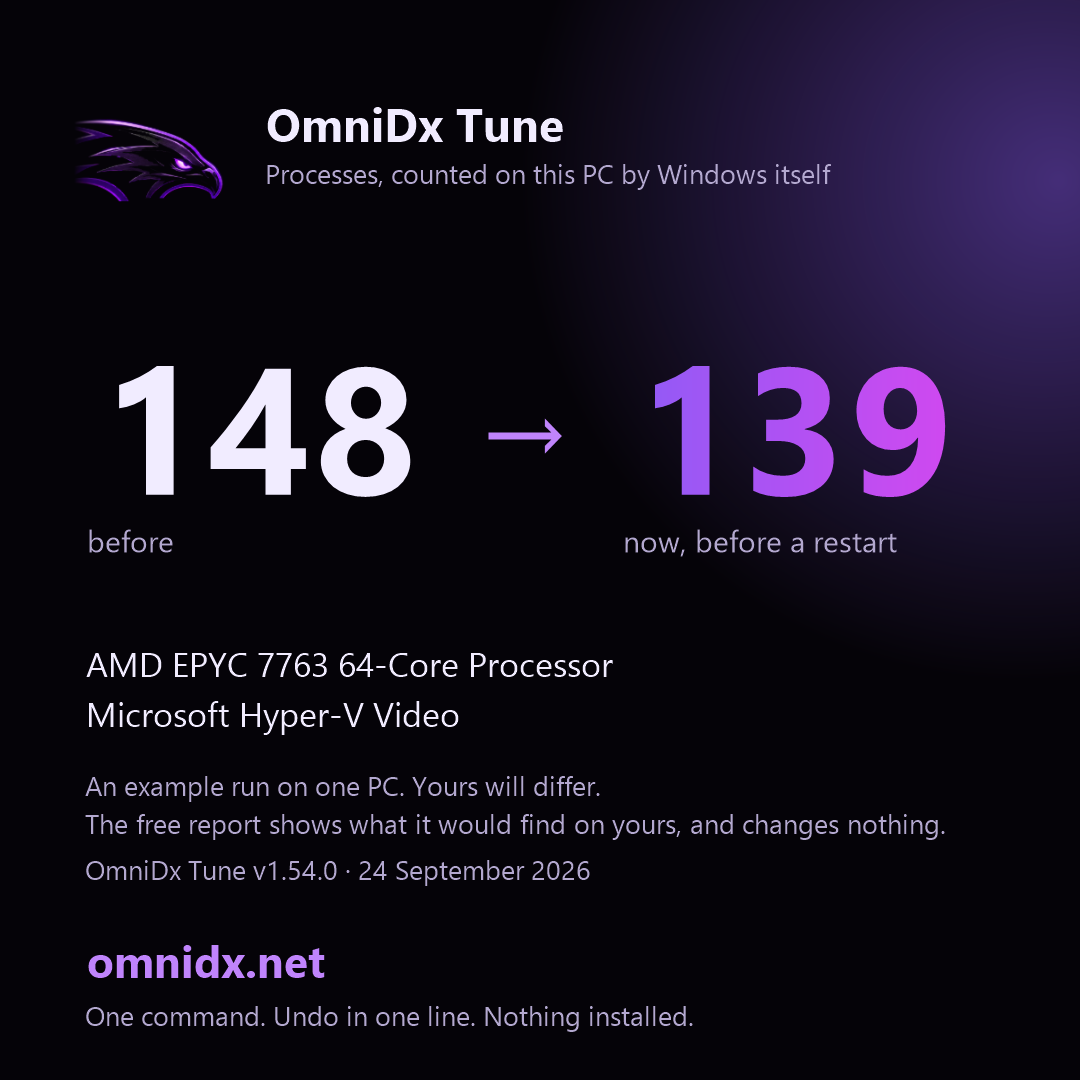
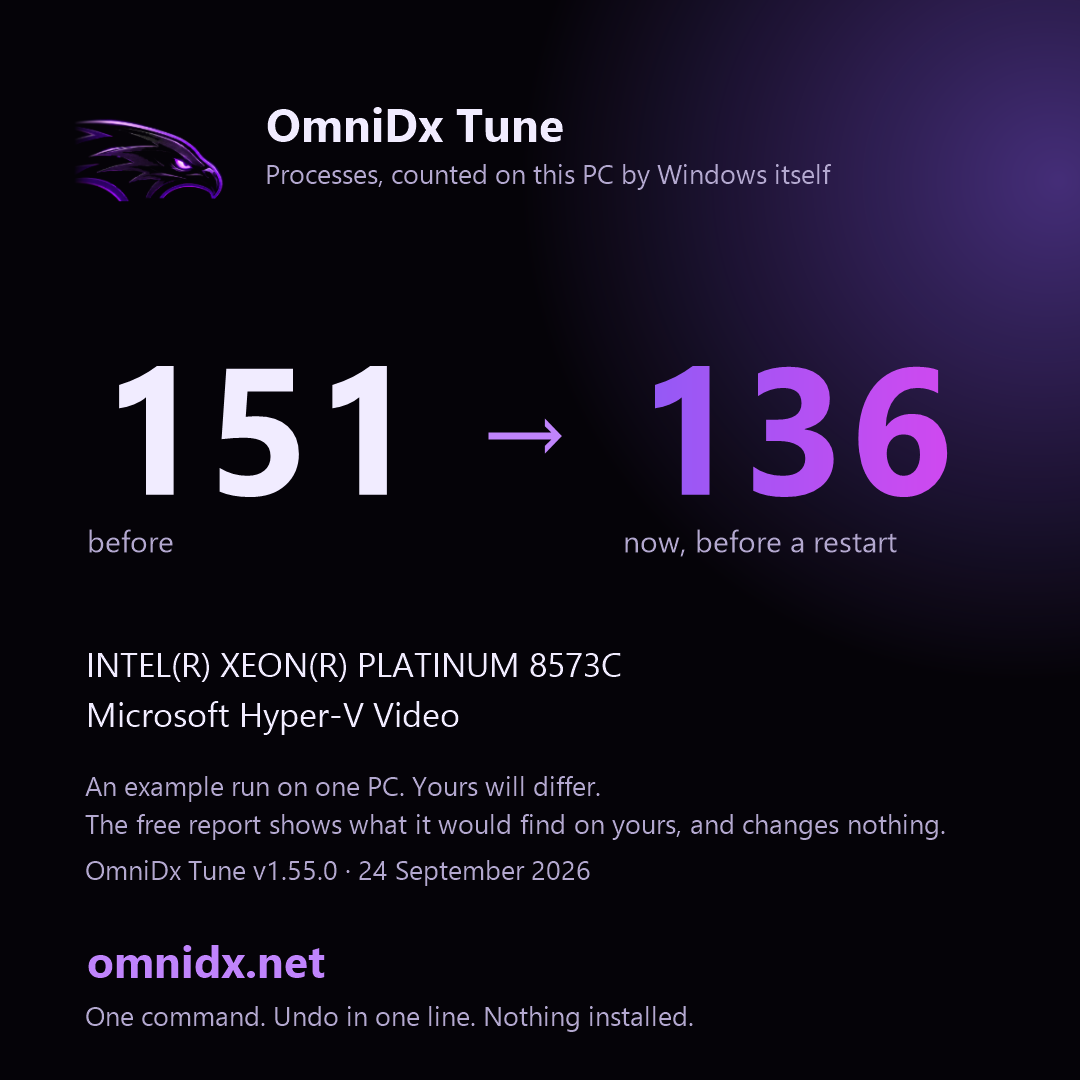
Windows check: the app window, the numbers, the log, and the script this run verified

diff --git a/studio/assets/ci-report.html b/studio/assets/ci-report.html
@@ -1,5 +1,5 @@
 <!doctype html><html lang="en"><head><meta charset="utf-8"><meta name="viewport" content="width=device-width,initial-scale=1">
-<title>OmniDx Tune report - 2026-09-24_08-09-39</title>
+<title>OmniDx Tune report - 2026-09-24_08-20-48</title>
 <style>
 body{margin:0;background:#050308;color:#f1ecff;font:15px/1.6 -apple-system,'Segoe UI',Roboto,system-ui,sans-serif}
 main{max-width:860px;margin:0 auto;padding:36px 20px 80px}
@@ -17,137 +17,134 @@ details{margin:10px 0;background:#0e0a17;border:1px solid #2a1f45;border-radius:
 details pre{font:12.5px/1.5 ui-monospace,Consolas,monospace;color:#b3a8cf;overflow:auto;max-height:420px;margin:10px 0 4px}
 .bios ul{list-style:none;padding-left:2px}.bios li{margin:8px 0;color:#f1ecff}.bios{background:#0e0a17;border:1px solid #2a1f45;border-radius:14px;padding:6px 18px}
 </style></head><body><main>
-<h1><img src="https://omnidx.net/studio/assets/icons/icon-192.png" alt="" width="44" height="44" style="vertical-align:middle;margin-right:10px" onerror="this.remove()">OmniDx Tune <span class="muted" style="font-size:16px">v1.54.0</span></h1>
-<p class="sub">Thursday, September 24, 2026 8:11 AM &middot; AMD EPYC 7763 64-Core Processor &middot; Microsoft Hyper-V Video &middot; 16 GB &middot; Microsoft Corporation Virtual Machine</p>
-<div class="big"><div><b>148</b><span>processes before</span></div><div><b>139</b><span>now, before a restart</span></div><div><b>~70</b><span>target for this PC after a restart</span></div></div>
+<h1><img src="https://omnidx.net/studio/assets/icons/icon-192.png" alt="" width="44" height="44" style="vertical-align:middle;margin-right:10px" onerror="this.remove()">OmniDx Tune <span class="muted" style="font-size:16px">v1.55.0</span></h1>
+<p class="sub">Thursday, September 24, 2026 8:22 AM &middot; INTEL(R) XEON(R) PLATINUM 8573C &middot; Microsoft Hyper-V Video &middot; 16 GB &middot; Microsoft Corporation Virtual Machine</p>
+<div class="big"><div><b>151</b><span>processes before</span></div><div><b>136</b><span>now, before a restart</span></div><div><b>~70</b><span>target for this PC after a restart</span></div></div>
 <p class='muted'>The card, for posting (the same numbers, on one picture): <code>ci-card.png</code></p><img src='ci-card.png' alt='Before and after, on a card' style='max-width:340px;width:100%;border-radius:14px;border:1px solid #2a1f45'>
 <p class="muted">Many of the "now" processes are only waiting to be stopped. The number after a restart is the one that counts; <code>C:\OmniDx\after-restart.txt</code> gets it at your next sign-in. Kept cut: a task at each sign-in puts back what a Windows update turns on; undo removes it.</p>
 <h2>Next steps</h2><ol><li>Restart. The services told to stop are still unwinding until you do, and the after-restart count lands in C:\OmniDx\after-restart.txt at your next sign-in, with the boot time of that start next to the one from before the tune.</li><li>BIOS: items 1 to 3 (memory profile, Re-Size BAR, CSM). Ten minutes, and the memory profile alone is the biggest free gain any PC has.</li><li>GPU control panel: low latency mode, power management and V-Sync, from the list below. Two minutes.</li><li>Launchers and overlays: the list below names the one or two settings in each that matter; the overlays are the usual cause of a stutter that &quot;came from nowhere&quot;.</li><li>Any time: $env:OMNIDX_MODE=&#39;status&#39;; irm omnidx.net/go.ps1 | iex shows what is still in place; undo is one line, and it is in this report.</li></ol>
-<h2>Before and after</h2><table><tr><th></th><th>Before</th><th>Now</th></tr><tr><td>Processes</td><td>148</td><td>139</td></tr><tr><td>Threads</td><td>1515</td><td>1472</td></tr><tr><td>Handles</td><td>49699</td><td>47427</td></tr><tr><td>Memory in use</td><td>2867 MB</td><td>2974 MB</td></tr><tr><td>Idle CPU</td><td>0.8%</td><td>1.4%</td></tr><tr><td>DPC time</td><td>0%</td><td>0.13%</td></tr></table>
-<h2>Gone, by name</h2><p class='muted'>Running before, not running now: spoolsv</p>
-<details><summary>Every process, before (57 names)</summary><pre>svchost                                  x81     1,193 MB
+<h2>Before and after</h2><table><tr><th></th><th>Before</th><th>Now</th></tr><tr><td>Processes</td><td>151</td><td>136</td></tr><tr><td>Threads</td><td>1629</td><td>1494</td></tr><tr><td>Handles</td><td>52441</td><td>47601</td></tr><tr><td>Memory in use</td><td>2963 MB</td><td>3025 MB</td></tr><tr><td>Idle CPU</td><td>7.1%</td><td>1.2%</td></tr><tr><td>DPC time</td><td>0%</td><td>0%</td></tr></table>
+<h2>Gone, by name</h2><p class='muted'>Running before, not running now: MoUsoCoreWorker, spoolsv, sppsvc</p>
+<details><summary>Every process, before (57 names)</summary><pre>svchost                                  x83     1,302 MB
 conhost                                  x4         33 MB
-taskhostw                                x3         64 MB
-WmiPrvSE                                 x3         61 MB
+taskhostw                                x3         93 MB
+WmiPrvSE                                 x3         63 MB
 csrss                                    x2         14 MB
 fontdrvhost                              x2         11 MB
 notepad                                  x2         59 MB
+RuntimeBroker                            x2         57 MB
 SMSvcHost                                x2         50 MB
 AzureArcSysTray                          x1         19 MB
-backgroundTaskHost                       x1         36 MB
-ctfmon                                   x1         26 MB
-DefenderSessionHelper                    x1          6 MB
-dockerd                                  x1         46 MB
+ctfmon                                   x1         25 MB
+dockerd                                  x1         48 MB
 dwm                                      x1         76 MB
-explorer                                 x1        159 MB
-hosted-compute-agent                     x1         21 MB
+explorer                                 x1        160 MB
+hosted-compute-agent                     x1         20 MB
 Idle                                     x1          0 MB
 LsaIso                                   x1          4 MB
 lsass                                    x1         31 MB
+MoUsoCoreWorker                          x1         23 MB
 MpDefenderCoreService                    x1         29 MB
 mqsvc                                    x1         19 MB
 msdtc                                    x1         14 MB
 MsMpEng                                  x1        162 MB
-node                                     x1         41 MB
+node                                     x1         43 MB
 OpenConsole                              x1         14 MB
-powershell                               x1        232 MB
-provjobd.exe567454764                    x1         37 MB
-Registry                                 x1         66 MB
-Runner.Listener                          x1         71 MB
-Runner.Worker                            x1         99 MB
-RuntimeBroker                            x1         47 MB
+powershell                               x1        260 MB
+provjobd.exe2565265330                   x1         33 MB
+Registry                                 x1         29 MB
+Runner.Listener                          x1         73 MB
+Runner.Worker                            x1        153 MB
 SearchHost                               x1        109 MB
 Secure System                            x1         52 MB
 SecurityHealthService                    x1         12 MB
 ServiceFabricLocalClusterManager         x1         36 MB
-services                                 x1         11 MB
+services                                 x1         12 MB
 ShellHost                                x1         42 MB
 sihost                                   x1         42 MB
 smartscreen                              x1         12 MB
 smss                                     x1          2 MB
 spoolsv                                  x1         22 MB
+sppsvc                                   x1         16 MB
 sqlwriter                                x1         11 MB
 sshd                                     x1          9 MB
-StartMenuExperienceHost                  x1        130 MB
+StartMenuExperienceHost                  x1        129 MB
 System                                   x1          0 MB
-TiWorker                                 x1         28 MB
+TiWorker                                 x1         41 MB
 TrustedInstaller                         x1         10 MB
 UserOOBEBroker                           x1         11 MB
 vmcompute                                x1         11 MB
-vmms                                     x1         33 MB
-WaAppAgent                               x1         84 MB
+vmms                                     x1         34 MB
+WaAppAgent                               x1         85 MB
 WaSecAgentProv                           x1          5 MB
-WindowsAzureGuestAgent                   x1         65 MB
+WindowsAzureGuestAgent                   x1         70 MB
 WindowsTerminal                          x1         85 MB
 wininit                                  x1          9 MB
 winlogon                                 x1         13 MB
-wslservice                               x1         27 MB</pre></details><details><summary>Every process, after (58 names)</summary><pre>svchost                                  x71     1,077 MB
-conhost                                  x4         33 MB
-taskhostw                                x3         71 MB
-WmiPrvSE                                 x3         67 MB
+wslservice                               x1         29 MB</pre></details><details><summary>Every process, after (55 names)</summary><pre>svchost                                  x70     1,066 MB
+conhost                                  x4         34 MB
+taskhostw                                x3         92 MB
+WmiPrvSE                                 x3         78 MB
 csrss                                    x2         14 MB
 fontdrvhost                              x2         11 MB
 notepad                                  x2         59 MB
+RuntimeBroker                            x2         57 MB
 SMSvcHost                                x2         50 MB
-AzureArcSysTray                          x1         19 MB
-backgroundTaskHost                       x1         27 MB
-ctfmon                                   x1         26 MB
-DefenderSessionHelper                    x1          6 MB
+AzureArcSysTray                          x1         20 MB
+ctfmon                                   x1         31 MB
 dllhost                                  x1         13 MB
-dockerd                                  x1         46 MB
-dwm                                      x1         76 MB
-explorer                                 x1        160 MB
-hosted-compute-agent                     x1         21 MB
+dockerd                                  x1         48 MB
+dwm                                      x1         77 MB
+explorer                                 x1        158 MB
+hosted-compute-agent                     x1         17 MB
 Idle                                     x1          0 MB
 LsaIso                                   x1          4 MB
 lsass                                    x1         31 MB
 MpDefenderCoreService                    x1         29 MB
 mqsvc                                    x1         19 MB
 msdtc                                    x1         14 MB
-MsMpEng                                  x1        162 MB
+MsMpEng                                  x1        102 MB
 node                                     x1         41 MB
 OpenConsole                              x1         14 MB
-powershell                               x1        241 MB
-provjobd.exe567454764                    x1         35 MB
-Registry                                 x1         64 MB
-Runner.Listener                          x1         68 MB
-Runner.Worker                            x1         97 MB
-RuntimeBroker                            x1         47 MB
+powershell                               x1        300 MB
+provjobd.exe2565265330                   x1         25 MB
+Registry                                 x1         65 MB
+Runner.Listener                          x1         63 MB
+Runner.Worker                            x1        149 MB
 SearchHost                               x1        109 MB
 Secure System                            x1         52 MB
 SecurityHealthService                    x1         12 MB
 ServiceFabricLocalClusterManager         x1         36 MB
-services                                 x1         11 MB
+services                                 x1         12 MB
 ShellHost                                x1         42 MB
-sihost                                   x1         42 MB
-smartscreen                              x1         12 MB
+sihost                                   x1         43 MB
+smartscreen                              x1         13 MB
 smss                                     x1          2 MB
 sqlwriter                                x1         11 MB
 sshd                                     x1          9 MB
 StartMenuExperienceHost                  x1        131 MB
 System                                   x1          0 MB
-TiWorker                                 x1         39 MB
+TiWorker                                 x1         41 MB
 TrustedInstaller                         x1         10 MB
 UserOOBEBroker                           x1         11 MB
 vmcompute                                x1         11 MB
 vmms                                     x1         34 MB
-WaAppAgent                               x1         84 MB
+WaAppAgent                               x1         85 MB
 WaSecAgentProv                           x1          5 MB
-WindowsAzureGuestAgent                   x1         66 MB
+WindowsAzureGuestAgent                   x1         70 MB
 WindowsTerminal                          x1         85 MB
 wininit                                  x1          9 MB
 winlogon                                 x1         13 MB
-WMIADAP                                  x1         11 MB
-wslservice                               x1         27 MB</pre></details>
+wslservice                               x1         29 MB</pre></details>
 <h2>Kept, and why</h2><ul><li>Defender, the firewall, Windows Update, audio, networking: always</li><li>Themes: Windows 10 falls back to the classic look without it</li><li>vmicguestinterface: this is a virtual machine</li><li>vmicheartbeat: this is a virtual machine</li><li>vmickvpexchange: this is a virtual machine</li><li>vmicrdv: this is a virtual machine</li><li>vmicshutdown: this is a virtual machine</li><li>vmictimesync: this is a virtual machine</li><li>vmicvmsession: this is a virtual machine</li><li>vmicvss: this is a virtual machine</li></ul>
 <h2>Warnings (3)</h2><div class="warn"><ul><li>The GPU driver dates from Jun 2006. A current driver is worth more than most tweaks.</li><li>This looks like a virtual machine. The tune will run, but the numbers mean little here.</li><li>Could not make a restore point (This functionality is not supported on this operating system.). The undo script still records everything.</li></ul></div>
-<h2>BIOS checklist for Microsoft Corporation Virtual Machine</h2><div class="bios"><ul><li>How to get in: restart, then press Del or F2 while the logo shows.</li><li>Where things are: the Advanced / Overclocking pages for memory, the PCI or Chipset page for Above 4G / Re-Size BAR, the Boot page for CSM, the Security page for TPM and Secure Boot.</li><li>1. Memory profile: enable EXPO (or DOCP / A-XMP on older boards). Your RAM is running at the slow default until you do; this is the single biggest free gain on any PC. Pick the profile matching the speed printed on the sticks.</li><li>2. Re-Size BAR / Smart Access Memory: set Above 4G Decoding = Enabled, then Re-Size BAR Support = Auto/Enabled. Needs CSM off (next line). Worth 5-15% in many games on RTX 30/40/50 and RX 6000+.</li><li>3. CSM (Compatibility Support Module): Disabled. You already boot UEFI, so nothing depends on it, and Re-Size BAR needs it off.</li><li>4. Secure Boot: Enabled. Windows 11 and Vanguard expect it; on 10 it costs nothing. Set OS Type / Secure Boot Mode to Windows UEFI if asked.</li><li>5. TPM: not detected. Enable AMD fTPM (AMD) or Intel PTT (Intel) under Security / Trusted Computing. VALORANT on Windows 11 will not run without it.</li><li>6. Precision Boost Overdrive: Enabled (or Advanced with the Curve Optimizer at a modest negative offset like -15 all-core if you know your cooler). Never a positive voltage offset.</li><li>7. Global C-states / package C-states: Auto is fine. Disabling them buys nothing measurable in games and raises idle heat.</li><li>8. Fast Boot: Enabled. Full Screen Logo / Boot Logo: Disabled (a second off every boot).</li><li>9. Fan curves: set the CPU fan to reach 100% by 80 C and the case fans to a steady ramp. Sustained boost needs airflow more than anything.</li><li>10. Onboard devices you do not use: serial port, Wi-Fi/Bluetooth if wired, onboard audio if you use USB audio, RGB controllers. Each one removed is an interrupt source gone.</li><li>11. HPET: leave at default. The &#39;disable HPET&#39; tweak is from 2013 and hurts more than it helps on modern Windows.</li><li>12. Virtualisation (SVM / VT-x): leave on if you use WSL, Docker, an emulator, or play VALORANT or on FACEIT (their anti-cheat needs it, with IOMMU); otherwise off saves a little scheduling overhead.</li><li>After saving: Windows will boot normally. If it does not (rare, usually CSM), go back in and re-enable the last thing you changed.</li><li>Do not update the BIOS unless the vendor&#39;s notes mention a fix for your exact problem; a failed flash is the one thing here that cannot be undone from Windows.</li></ul></div>
+<h2>BIOS checklist for Microsoft Corporation Virtual Machine</h2><div class="bios"><ul><li>How to get in: restart, then press Del or F2 while the logo shows.</li><li>Where things are: the Advanced / Overclocking pages for memory, the PCI or Chipset page for Above 4G / Re-Size BAR, the Boot page for CSM, the Security page for TPM and Secure Boot.</li><li>1. Memory profile: enable XMP. Your RAM is running at the slow default until you do; this is the single biggest free gain on any PC. Pick the profile matching the speed printed on the sticks.</li><li>2. Re-Size BAR / Smart Access Memory: set Above 4G Decoding = Enabled, then Re-Size BAR Support = Auto/Enabled. Needs CSM off (next line). Worth 5-15% in many games on RTX 30/40/50 and RX 6000+.</li><li>3. CSM (Compatibility Support Module): Disabled. You already boot UEFI, so nothing depends on it, and Re-Size BAR needs it off.</li><li>4. Secure Boot: Enabled. Windows 11 and Vanguard expect it; on 10 it costs nothing. Set OS Type / Secure Boot Mode to Windows UEFI if asked.</li><li>5. TPM: not detected. Enable AMD fTPM (AMD) or Intel PTT (Intel) under Security / Trusted Computing. VALORANT on Windows 11 will not run without it.</li><li>6. Intel: leave MultiCore Enhancement at Auto; set the long and short power limits (PL1/PL2) to the chip&#39;s rated maximum if the board runs them lower. Do not touch voltages.</li><li>7. Global C-states / package C-states: Auto is fine. Disabling them buys nothing measurable in games and raises idle heat.</li><li>8. Fast Boot: Enabled. Full Screen Logo / Boot Logo: Disabled (a second off every boot).</li><li>9. Fan curves: set the CPU fan to reach 100% by 80 C and the case fans to a steady ramp. Sustained boost needs airflow more than anything.</li><li>10. Onboard devices you do not use: serial port, Wi-Fi/Bluetooth if wired, onboard audio if you use USB audio, RGB controllers. Each one removed is an interrupt source gone.</li><li>11. HPET: leave at default. The &#39;disable HPET&#39; tweak is from 2013 and hurts more than it helps on modern Windows.</li><li>12. Virtualisation (SVM / VT-x): leave on if you use WSL, Docker, an emulator, or play VALORANT or on FACEIT (their anti-cheat needs it, with IOMMU); otherwise off saves a little scheduling overhead.</li><li>After saving: Windows will boot normally. If it does not (rare, usually CSM), go back in and re-enable the last thing you changed.</li><li>Do not update the BIOS unless the vendor&#39;s notes mention a fix for your exact problem; a failed flash is the one thing here that cannot be undone from Windows.</li></ul></div>
 <h2>GPU control panel</h2><ul><li>GPU not identified; use the vendor control panel to set low-latency mode on, power management to maximum performance and V-Sync off.</li></ul>
 <h2>Launchers, overlays and helper apps</h2><ul><li>None of the usual launchers, overlays or peripheral suites found. The same notes apply the day you install one; run the command again and they appear here.</li></ul>
 <h2>Left by other tools</h2><p class="muted">The tune changes none of these; it names them, with the way back.</p><ul><li>Nothing found: no other tool has left Defender, Windows Update, SmartScreen, User Account Control or the CPU mitigations switched off on this PC.</li></ul>
 <h2>Per game</h2><p class='muted'>Not found on this PC (the same profile applies if you install them): Fortnite, VALORANT, Counter-Strike 2, Marvel Rivals, Apex Legends, Call of Duty (Warzone / MW), Overwatch 2, Rainbow Six Siege, Rocket League, Minecraft, Roblox, League of Legends, GTA V / Online, Rust, Escape from Tarkov, PUBG, The Finals, Dota 2, Battlefield 6, Deadlock, Delta Force, ARC Raiders, Helldivers 2, Warframe, Destiny 2, Halo Infinite, Dead by Daylight, Hunt: Showdown 1896, War Thunder, World of Warcraft, Squad, Battlefield 2042, EA Sports FC 26, NBA 2K26, Palworld, Path of Exile 2, Diablo IV, Monster Hunter Wilds, Elden Ring / Nightreign, Cyberpunk 2077, Baldur&#39;s Gate 3, Star Citizen, DayZ, Arma Reforger, Hell Let Loose, Genshin Impact, Ready or Not, Final Fantasy XIV, STALKER 2, Sea of Thieves</p>
-<h2>What was done</h2><h4>Safety first</h4><div class='did'>Registry and service list backed up to C:\OmniDx\backup\2026-09-24_08-09-39</div><div class='did'>undo.ps1 written to C:\OmniDx\undo</div><h4>Startup apps</h4><div class='did'>off: AzureArcSetup</div><div class='did'>off: Service Fabric Local Cluster Manager (Startup folder)</div><h4>Services</h4><div class='did'>dmwappushservice -&gt; disabled  (telemetry push)</div><div class='did'>WerSvc -&gt; disabled  (error reporting)</div><div class='did'>wercplsupport -&gt; disabled  (error reporting)</div><div class='did'>PcaSvc -&gt; disabled  (compatibility assistant)</div><div class='did'>lfsvc -&gt; disabled  (geolocation)</div><div class='did'>RemoteRegistry -&gt; disabled  (remote registry)</div><div class='did'>WMPNetworkSvc -&gt; disabled  (media sharing)</div><div class='did'>TrkWks -&gt; disabled  (link tracking)</div><div class='did'>WalletService -&gt; disabled  (wallet)</div><div class='did'>wisvc -&gt; disabled  (insider program)</div><div class='did'>SEMgrSvc -&gt; disabled  (payments and NFC)</div><div class='did'>TapiSrv -&gt; disabled  (telephony)</div><div class='did'>SharedAccess -&gt; disabled  (internet connection sharing)</div><div class='did'>edgeupdate -&gt; manual  (Edge updater (runs on demand))</div><div class='did'>WbioSrvc -&gt; disabled  (biometrics)</div><div class='did'>SysMain already disabled; left that way</div><div class='did'>WSearch already disabled; left that way</div><div class='did'>Spooler -&gt; disabled  (print spooler)</div><div class='did'>bthserv -&gt; disabled  (bluetooth)</div><div class='did'>WlanSvc -&gt; disabled  (wi-fi)</div><div class='did'>CDPSvc -&gt; manual  (connected devices)</div><div class='did'>CDPUserSvc already disabled; left that way</div><div class='did'>OneSyncSvc already disabled; left that way</div><div class='did'>PimIndexMaintenanceSvc already disabled; left that way</div><div class='did'>UnistoreSvc already disabled; left that way</div><div class='did'>UserDataSvc already disabled; left that way</div><div class='did'>SSDPSRV already disabled; left that way</div><div class='did'>upnphost already disabled; left that way</div><div class='did'>DPS -&gt; manual  (diagnostic policy)</div><div class='did'>SCardSvr -&gt; disabled  (smart card)</div><div class='did'>ScDeviceEnum -&gt; disabled  (smart card)</div><div class='did'>CertPropSvc -&gt; disabled  (smart card)</div><div class='did'>iphlpsvc -&gt; manual  (ipv6 tunnels)</div><div class='did'>cbdhsvc -&gt; manual  (clipboard history)</div><div class='did'>WpnService -&gt; manual  (push notifications)</div><div class='did'>WpnUserService -&gt; manual  (push notifications)</div><div class='did'>SNMPTRAP -&gt; disabled  (SNMP traps)</div><div class='did'>workfolderssvc -&gt; disabled  (Work Folders sync)</div><h4>Scheduled tasks</h4><div class='did'>PcaPatchDbTask</div><div class='did'>CreateObjectTask</div><div class='did'>Device</div><div class='did'>Device User</div><div class='did'>LoginCheck</div><div class='did'>WindowsActionDialog</div><div class='did'>OobeDiscovery</div><div class='did'>Diagnostics</div><div class='did'>UsageDataFlushing</div><div class='did'>UsageDataReporting</div><div class='did'>Registration</div><div class='did'>IndexerAutomaticMaintenance</div><div class='did'>Storage Tiers Management Initialization</div><div class='did'>UPnPHostConfig</div><div class='did'>ResolutionHost</div><div class='did'>UpdateLibrary</div><div class='did'>Work Folders Logon Synchronization</div><div class='did'>Work Folders Maintenance Work</div><h4>Preinstalled apps</h4><div class='did'>Microsoft.WindowsFeedbackHub</div><h4>Debloat</h4><div class='did'>removed Steps Recorder (screenshots every click, retired by Microsoft)</div><div class='did'>removed the 2009 Windows Media Player (the Store one stays)</div><div class='did'>removed Math Input Panel</div><div class='did'>removed Internet Explorer 11</div><div class='did'>off: Work Folders (corporate sync)</div><div class='did'>Edge: shopping assistant, recommendations, Spotlight, feedback prompts and reporting off</div><div class='did'>Kept gone: consumer features, suggested apps, account nags and the &#39;finish setting up&#39; screen are off by policy</div><h4>Telemetry, background activity, the shell</h4><div class='did'>Telemetry, the advertising id, activity history, suggestions, Bing in Start, Recall and Edge&#39;s reporting off; background apps off; widgets, news, Copilot and Cortana off; Game DVR off, Game Mode on; the classic right-click menu on 11</div><h4>System tuning</h4><div class='did'>NTFS last-access stamps off</div><div class='did'>NTFS allowed more memory for its cache</div><div class='did'>Defender&#39;s scheduled scans already capped at 5% of the CPU, lower than the tune&#39;s 25%: left as it is</div><h4>The OmniDx power plan</h4><div class='did'>2 plan setting(s) this PC does not have were skipped.</div><div class='did'>OmniDx plan created and active: CPU 100/100, boost aggressive, energy preference on performance, no core parking, no throttle states on a desktop, PCIe, USB and Wi-Fi power saving off, no sleep on mains.</div><h4>Network</h4><div class='did'>TCP: autotuning normal, ECN and timestamps off, receive-side scaling on, segment coalescing off, CTCP.</div><div class='did'>Ethernet 4: Interrupt Moderation off</div><div class='did'>Ethernet 4: Nagle off, power saving off</div><div class='did'>Ethernet 3: Nagle off, power saving off</div><h4>Discord, Spotify, browsers</h4><div class='did'>Chrome: no background mode, hardware acceleration on</div><div class='did'>Edge: no startup boost, no background mode, hardware acceleration on</div><h4>Game profiles</h4><div class='did'>No listed game found on the usual drives; the CPU-priority profiles are in place for when one is installed.</div><h4>Cleanup</h4><div class='did'>Temp files, the Windows Update download cache and the peer-to-peer update cache cleared: about 305 MB back.</div><h4>Keeping it cut</h4><div class='did'>Task &#39;OmniDx keep&#39; runs three minutes after sign-in, puts back whatever an update turned on, and notes that start&#39;s boot time. Log: C:\OmniDx\keep-log.txt. Undo removes it.</div>
-<h2>Undo</h2><p>Administrator PowerShell: <code>powershell -ExecutionPolicy Bypass -File C:\OmniDx\undo\undo.ps1</code><br>No restore point was made on this run (see the warnings); the undo script is the way back.<br>Changes recorded in <code>C:\OmniDx\undo\changes-2026-09-24_08-09-39.json</code>.</p>
+<h2>What was done</h2><h4>Safety first</h4><div class='did'>Registry and service list backed up to C:\OmniDx\backup\2026-09-24_08-20-48</div><div class='did'>undo.ps1 written to C:\OmniDx\undo</div><h4>Startup apps</h4><div class='did'>off: AzureArcSetup</div><div class='did'>off: Service Fabric Local Cluster Manager (Startup folder)</div><h4>Services</h4><div class='did'>dmwappushservice -&gt; disabled  (telemetry push)</div><div class='did'>WerSvc -&gt; disabled  (error reporting)</div><div class='did'>wercplsupport -&gt; disabled  (error reporting)</div><div class='did'>PcaSvc -&gt; disabled  (compatibility assistant)</div><div class='did'>lfsvc -&gt; disabled  (geolocation)</div><div class='did'>RemoteRegistry -&gt; disabled  (remote registry)</div><div class='did'>WMPNetworkSvc -&gt; disabled  (media sharing)</div><div class='did'>TrkWks -&gt; disabled  (link tracking)</div><div class='did'>WalletService -&gt; disabled  (wallet)</div><div class='did'>wisvc -&gt; disabled  (insider program)</div><div class='did'>SEMgrSvc -&gt; disabled  (payments and NFC)</div><div class='did'>TapiSrv -&gt; disabled  (telephony)</div><div class='did'>SharedAccess -&gt; disabled  (internet connection sharing)</div><div class='did'>edgeupdate -&gt; manual  (Edge updater (runs on demand))</div><div class='did'>WbioSrvc -&gt; disabled  (biometrics)</div><div class='did'>SysMain already disabled; left that way</div><div class='did'>WSearch already disabled; left that way</div><div class='did'>Spooler -&gt; disabled  (print spooler)</div><div class='did'>bthserv -&gt; disabled  (bluetooth)</div><div class='did'>WlanSvc -&gt; disabled  (wi-fi)</div><div class='did'>CDPSvc -&gt; manual  (connected devices)</div><div class='did'>CDPUserSvc already disabled; left that way</div><div class='did'>OneSyncSvc already disabled; left that way</div><div class='did'>PimIndexMaintenanceSvc already disabled; left that way</div><div class='did'>UnistoreSvc already disabled; left that way</div><div class='did'>UserDataSvc already disabled; left that way</div><div class='did'>SSDPSRV already disabled; left that way</div><div class='did'>upnphost already disabled; left that way</div><div class='did'>DPS -&gt; manual  (diagnostic policy)</div><div class='did'>SCardSvr -&gt; disabled  (smart card)</div><div class='did'>ScDeviceEnum -&gt; disabled  (smart card)</div><div class='did'>CertPropSvc -&gt; disabled  (smart card)</div><div class='did'>iphlpsvc -&gt; manual  (ipv6 tunnels)</div><div class='did'>cbdhsvc -&gt; manual  (clipboard history)</div><div class='did'>WpnService -&gt; manual  (push notifications)</div><div class='did'>WpnUserService -&gt; manual  (push notifications)</div><div class='did'>SNMPTRAP -&gt; disabled  (SNMP traps)</div><div class='did'>workfolderssvc -&gt; disabled  (Work Folders sync)</div><h4>Scheduled tasks</h4><div class='did'>PcaPatchDbTask</div><div class='did'>CreateObjectTask</div><div class='did'>Device</div><div class='did'>Device User</div><div class='did'>LoginCheck</div><div class='did'>WindowsActionDialog</div><div class='did'>OobeDiscovery</div><div class='did'>Diagnostics</div><div class='did'>UsageDataFlushing</div><div class='did'>UsageDataReporting</div><div class='did'>Registration</div><div class='did'>IndexerAutomaticMaintenance</div><div class='did'>Storage Tiers Management Initialization</div><div class='did'>UPnPHostConfig</div><div class='did'>ResolutionHost</div><div class='did'>UpdateLibrary</div><div class='did'>Work Folders Logon Synchronization</div><div class='did'>Work Folders Maintenance Work</div><h4>Preinstalled apps</h4><div class='did'>Microsoft.WindowsFeedbackHub</div><h4>Debloat</h4><div class='did'>removed Steps Recorder (screenshots every click, retired by Microsoft)</div><div class='did'>removed the 2009 Windows Media Player (the Store one stays)</div><div class='did'>removed Math Input Panel</div><div class='did'>removed Internet Explorer 11</div><div class='did'>off: Work Folders (corporate sync)</div><div class='did'>Edge: shopping assistant, recommendations, Spotlight, feedback prompts and reporting off</div><div class='did'>Kept gone: consumer features, suggested apps, account nags and the &#39;finish setting up&#39; screen are off by policy</div><h4>Telemetry, background activity, the shell</h4><div class='did'>Telemetry, the advertising id, activity history, suggestions, Bing in Start, Recall and Edge&#39;s reporting off; background apps off; widgets, news, Copilot and Cortana off; Game DVR off, Game Mode on; the classic right-click menu on 11</div><h4>System tuning</h4><div class='did'>NTFS last-access stamps off</div><div class='did'>NTFS allowed more memory for its cache</div><div class='did'>Defender&#39;s scheduled scans already capped at 5% of the CPU, lower than the tune&#39;s 25%: left as it is</div><h4>The OmniDx power plan</h4><div class='did'>2 plan setting(s) this PC does not have were skipped.</div><div class='did'>OmniDx plan created and active: CPU 100/100, boost aggressive, energy preference on performance, no core parking, no throttle states on a desktop, PCIe, USB and Wi-Fi power saving off, no sleep on mains.</div><h4>Network</h4><div class='did'>TCP: autotuning normal, ECN and timestamps off, receive-side scaling on, segment coalescing off, CTCP.</div><div class='did'>Ethernet 3: Nagle off, power saving off</div><div class='did'>Ethernet 4: Nagle off, power saving off</div><h4>Discord, Spotify, browsers</h4><div class='did'>Chrome: no background mode, hardware acceleration on</div><div class='did'>Edge: no startup boost, no background mode, hardware acceleration on</div><h4>Game profiles</h4><div class='did'>No listed game found on the usual drives; the CPU-priority profiles are in place for when one is installed.</div><h4>Cleanup</h4><div class='did'>Temp files, the Windows Update download cache and the peer-to-peer update cache cleared: about 374 MB back.</div><h4>Keeping it cut</h4><div class='did'>Task &#39;OmniDx keep&#39; runs three minutes after sign-in, puts back whatever an update turned on, and notes that start&#39;s boot time. Log: C:\OmniDx\keep-log.txt. Undo removes it.</div>
+<h2>Undo</h2><p>Administrator PowerShell: <code>powershell -ExecutionPolicy Bypass -File C:\OmniDx\undo\undo.ps1</code><br>No restore point was made on this run (see the warnings); the undo script is the way back.<br>Changes recorded in <code>C:\OmniDx\undo\changes-2026-09-24_08-20-48.json</code>.</p>
 <h2>Status, any time</h2><p>What is still in place, what an update put back, the keep task and the after-restart count: <code>$env:OMNIDX_MODE='status'; irm omnidx.net/go.ps1 | iex</code><br><span class="muted">README.txt in C:\OmniDx says what each file there is.</span></p>
 <p class="muted" style="margin-top:40px">omnidx.net &middot; one payment, one PC, undo in one line.</p>
 </main></body></html>
